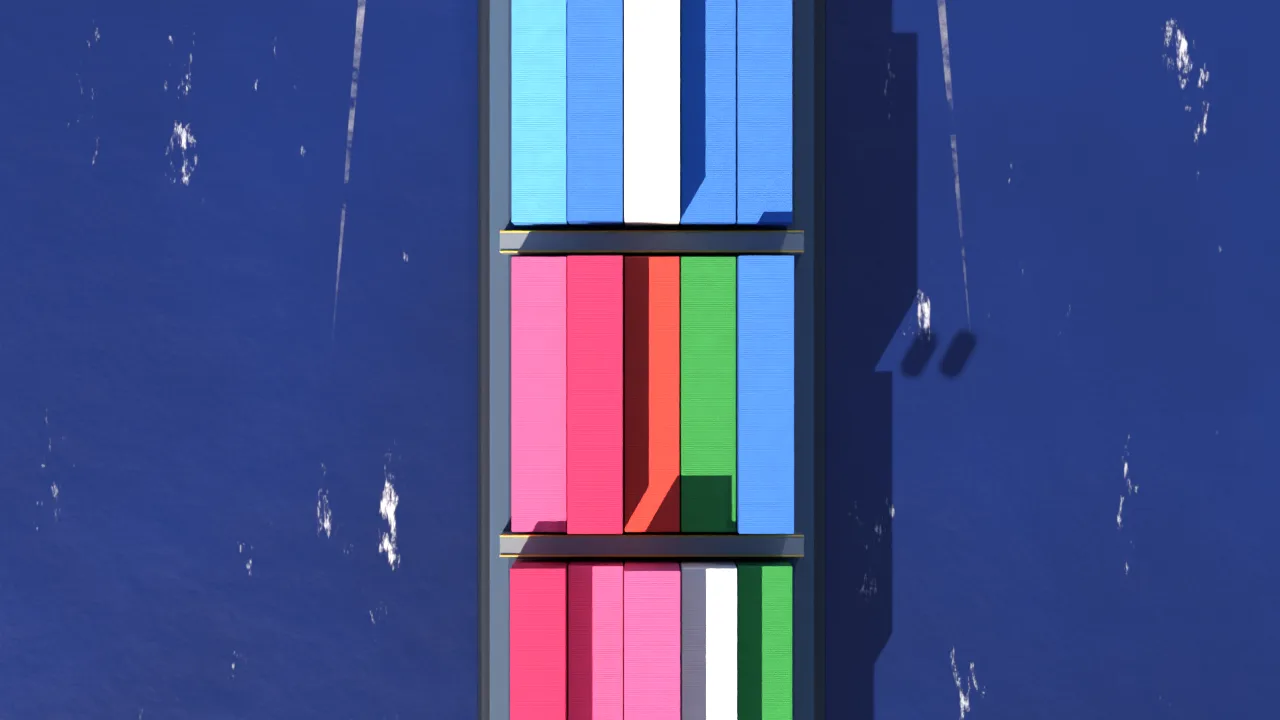
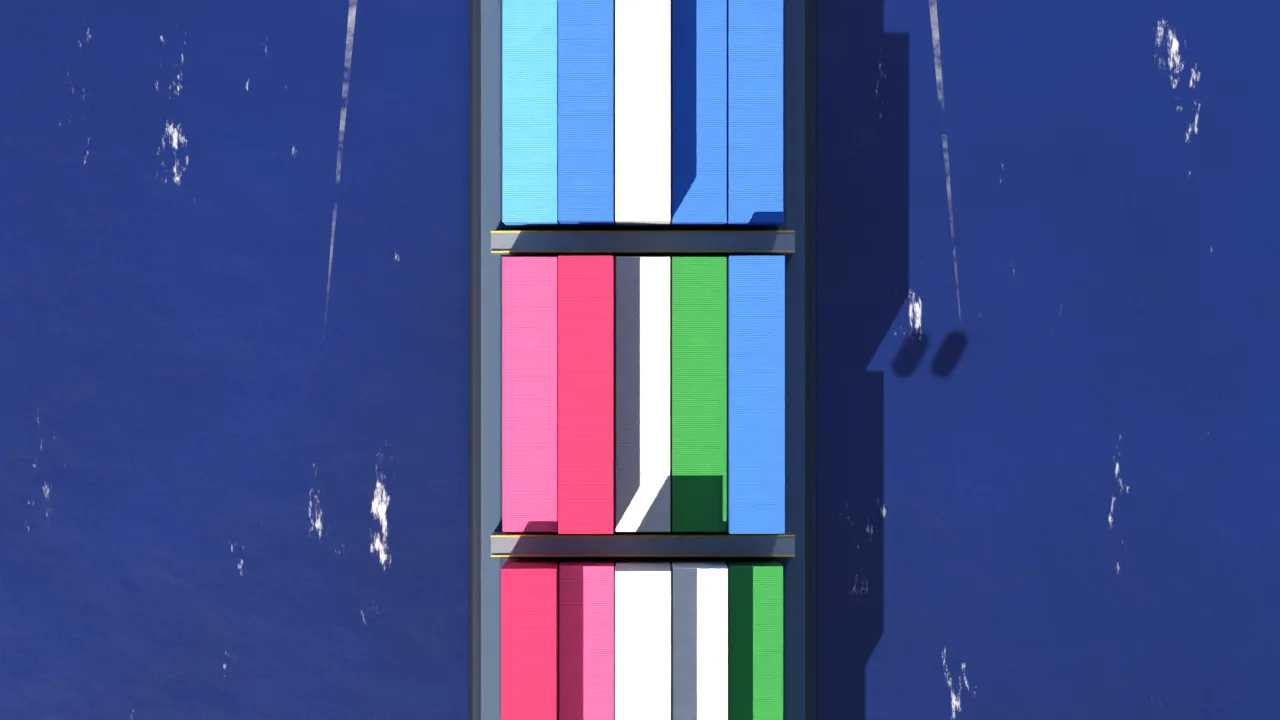
Port behind the road: stack and stacker stay on the white ground off the black road; stacker out of frame before it is switched off; stack far enough right to never peek in at the hand-over

diff --git a/js/scenes/journey.js b/js/scenes/journey.js
@@ -134,8 +134,11 @@ export function initJourney(canvas, onSpeed) {
   scene.add(inst);
   // ---------- Port: two boxes end-on with the hero box on top, behind the truck lane (z = ZP);
   // the live reach stacker picks it, backs off turning to face the camera and sets it on the truck
-  const ZP = -9;
-  const STACK_X = [20.6, 23.04], HERO_X = (STACK_X[0] + STACK_X[1]) / 2;
+  // everything in the port stands on the white ground behind the black road (|z| < RW/2 = 7.2):
+  // the 40 ft stack (12.2 m deep) sits right behind the kerb, the stacker never drives onto the road
+  const ZP = -(RW / 2 + CONT.L / 2 + 0.3);
+  // far enough right that the widening hand-over framing (0.36–0.42) never shows it again
+  const STACK_X = [28.6, 31.04], HERO_X = (STACK_X[0] + STACK_X[1]) / 2;
   const stack = STACK_X.map((x, i) => {
     const s = buildRibbedContainer(i ? '#d4632a' : '#1f3c8f', '');
     s.position.set(x, 0, ZP);
@@ -154,7 +157,8 @@ export function initJourney(canvas, onSpeed) {
   const liftTip = new THREE.Vector2(PICK_REACH - 0.4, 2 * H + SP_H + 1.6);
   // after the turn the boom points at the camera (+Z) over the truck lane: box low over the deck
   const DECK_Y = 1.6;                                       // truck deck (container bottom) height
-  const CARRY_D = 7.5;                                      // box ahead of the rig, = the rig's distance behind the lane
+  // box ahead of the rig = the rig's distance behind the lane: front tyres (3.4 m ahead) stay off the road
+  const CARRY_D = RW / 2 + 3.4 + 0.4;
   const carryTip = new THREE.Vector2(CARRY_D, DECK_Y + 0.4 + H + SP_H);
   const downTip = new THREE.Vector2(CARRY_D, DECK_Y + H + SP_H);
   const clearTip = new THREE.Vector2(CARRY_D - 0.4, DECK_Y + H + SP_H + 0.9);   // locks open, lift clear
@@ -223,11 +227,12 @@ export function initJourney(canvas, onSpeed) {
     // spreader lifts clear 0.35–0.40 · stacker backs away 0.38–0.42 (it never vanishes)
     const XC = 3.0;                                       // box (and trailer) x once on the truck
     // after the drop it backs off, swings round to the left and drives out of the shot
-    const drive = seg(P, 0, 0.13), turnU = seg(P, 0.19, 0.26), back = seg(P, 0.365, 0.385), away = seg(P, 0.38, 0.47);
-    const rigX = lerp(lerp(RIG_PICK_X - 14, RIG_PICK_X, drive), XC, turnU) - 34 * Math.pow(away, 1.3);
+    // (fully out of the frame by 0.415, before it is switched off at 0.42)
+    const drive = seg(P, 0, 0.13), turnU = seg(P, 0.19, 0.26), back = seg(P, 0.365, 0.385), away = seg(P, 0.375, 0.415);
+    const rigX = lerp(lerp(RIG_PICK_X - 14, RIG_PICK_X, drive), XC, turnU) - 40 * Math.pow(away, 1.3);
     const rigZ = lerp(ZP, -CARRY_D, turnU) - 3.5 * back - 2 * away;
     rig.root.position.set(rigX, 0, rigZ);
-    rig.root.rotation.y = -Math.PI / 2 * turnU - Math.PI / 2 * seg(P, 0.38, 0.43);
+    rig.root.rotation.y = -Math.PI / 2 * turnU - Math.PI / 2 * seg(P, 0.375, 0.405);
     let pose;
     if (P < 0.15) pose = lerpPose(restPose, rig.solve(pickTip), seg(P, 0.04, 0.14));
     else if (P < 0.19) pose = tipPose(pickTip, liftTip, seg(P, 0.15, 0.19));
